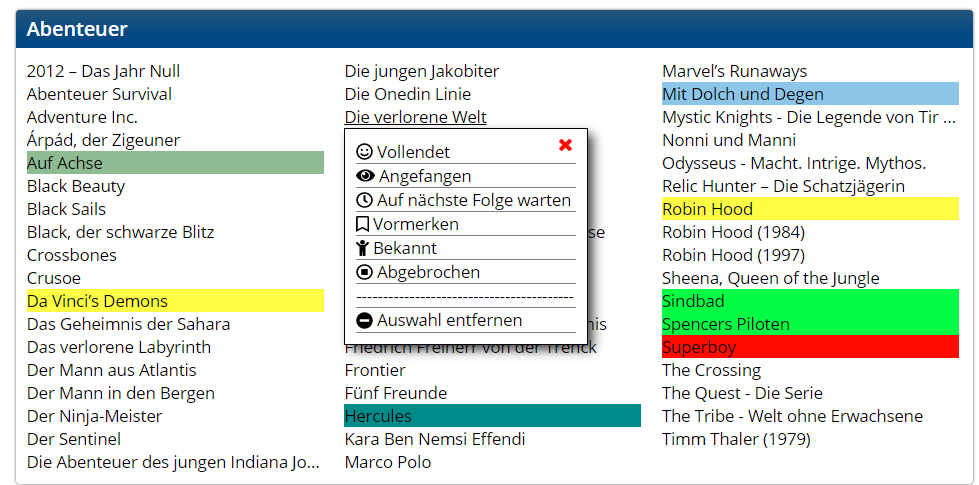
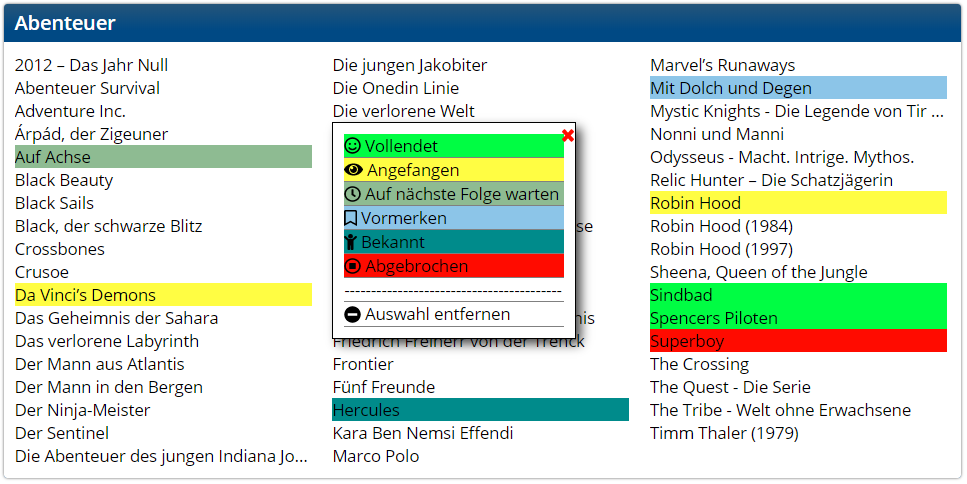
Added background colors to context menu for better understanding

diff --git a/main.js b/main.js
@@ -17,8 +17,8 @@ GM_addStyle('.contextMenuParent { position: relative;  }');
 GM_addStyle('.contextMenuContainer { position: absolute; background: gray; z-index: 100; -webkit-box-shadow: 10px 10px 31px -1px rgba(0,0,0,0.75);-moz-box-shadow: 10px 10px 31px -1px rgba(0,0,0,0.75);box-shadow: 5px 5px 15px -1px rgba(0,0,0,0.75);}');
 GM_addStyle('.contextMenu { display: grid; padding: 4px; width: 200px; border: 1px solid black;  color: black; }');
 GM_addStyle('.contextMenu li { border-bottom: 1px solid gray; }');
-GM_addStyle('.contextMenu li:hover { cursor: pointer; color: red; }');
-GM_addStyle('.contextMenuClose { position: absolute; top: 5px; right: 15px; color: red;  z-index: 110;}');
+GM_addStyle('.contextMenu li:hover { cursor: pointer; color: white; }');
+GM_addStyle('.contextMenuClose { position: absolute; top: 2px; right: 2px; color: red;  z-index: 110;}');
 GM_addStyle('.contextMenuClose:hover { cursor: pointer; }');
 
 var vormerken = [];
@@ -68,6 +68,13 @@ $(document).ready(function() {
             $(".contextMenuContainer").remove();
 
             $(this).append("<div class='contextMenuContainer'><ul class='contextMenu'>" + contextMenuLinks + "</ul><div class='contextMenuClose'><i class='fas fa-times'></i></div></div>");
+
+            $(".vollendet").css("background", vollendetFarbe);
+            $(".angefangen").css("background", angefangenFarbe);
+            $(".vormerken").css("background", vorgemerktFarbe);
+            $(".bekannt").css("background", bekanntFarbe);
+            $(".aufNaechsteFolgeWarten").css("background", fortsetzungFarbe);
+            $(".abgebrochen").css("background", abgebrochenFarbe);
 
             // Calculate the offset coordinates and set CSS rules
             var off = $(this).offset();
